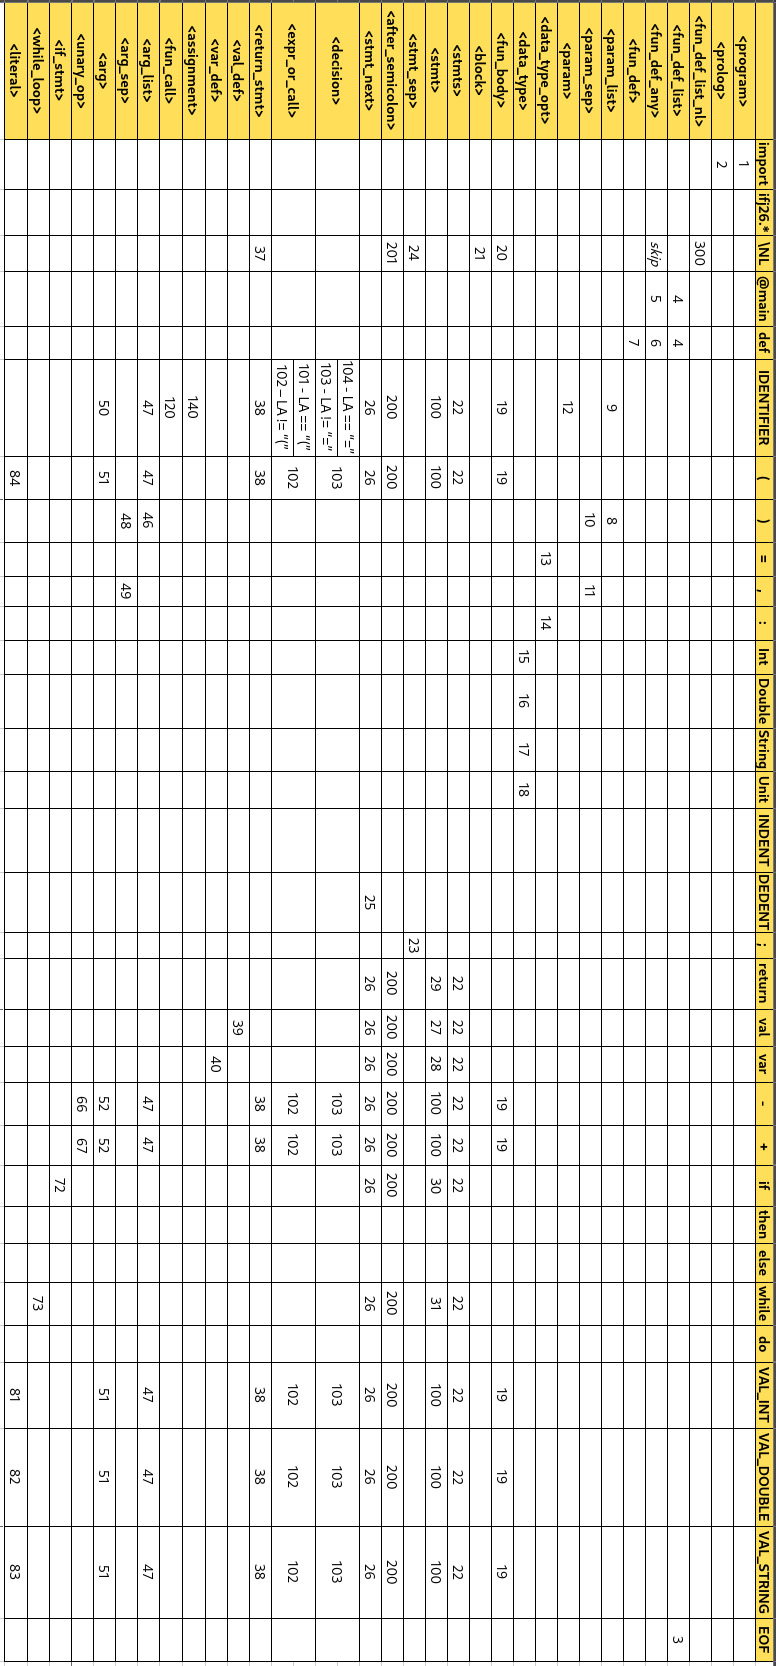
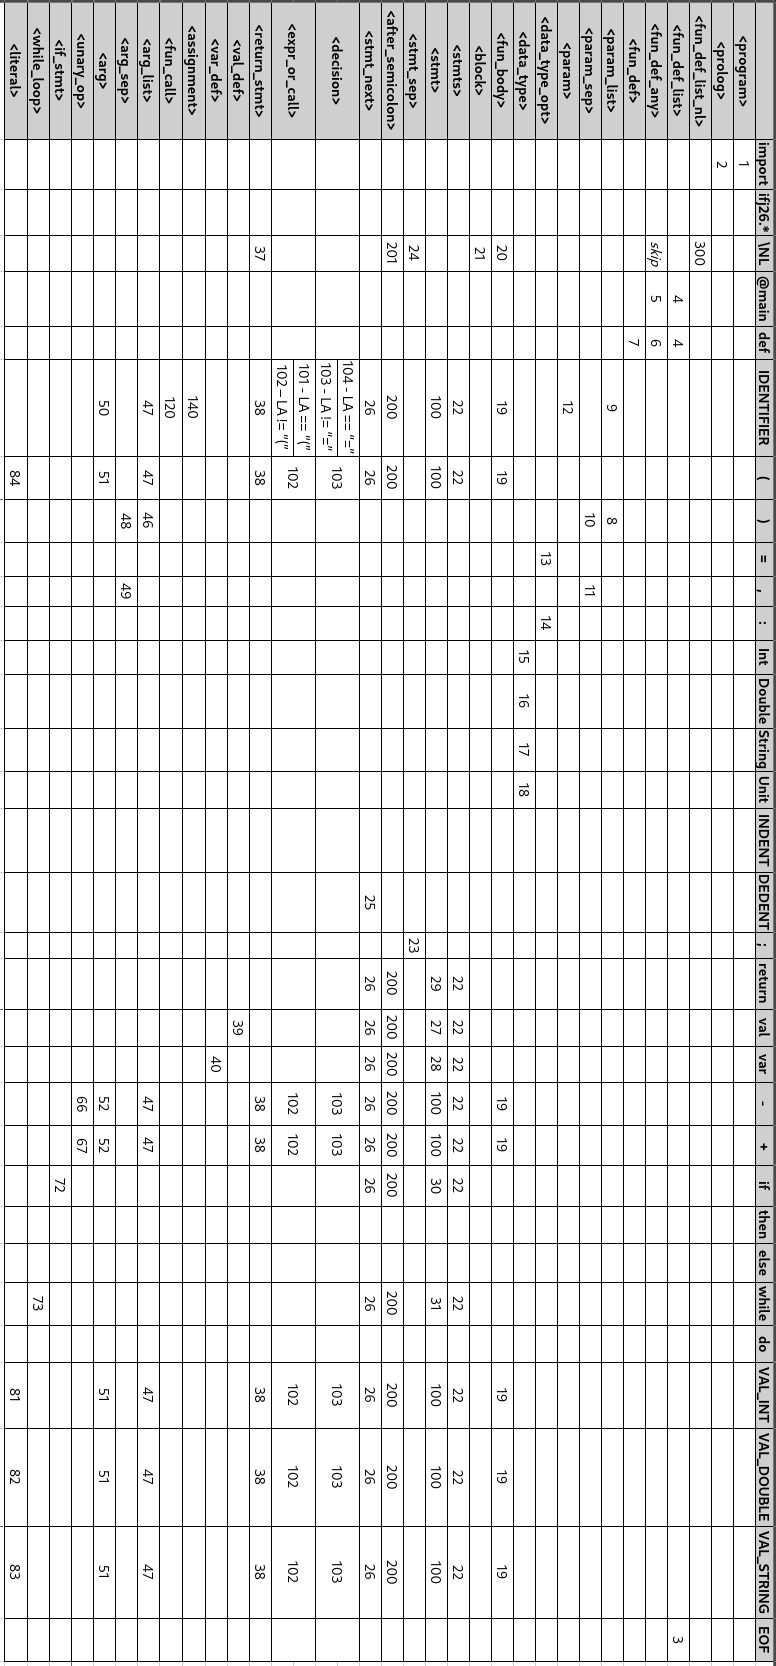
Slightly changed point distribution, changed LL table color, added a few module descriptions

Changed region(s): [[0.0, 0.0, 1.0, 0.9988]]

diff --git a/doc/main.tex b/doc/main.tex
@@ -74,13 +74,13 @@
         \hline
         \textbf{Člen týmu} & \textbf{VUT login} & \textbf{Osobní číslo} & \textbf{Podíl bodů} \\
         \hline
-        \textbf{Martin Vaško} & xvaskom00 & 282244 & DOPLŇTE \% \\
+        \textbf{Martin Vaško} & \textbf{xvaskom00} & \textbf{282244} & 54 \% \\
         \hline
-        Michal Bína & xbinami00 & 282028 & DOPLŇTE \% \\
+        Michal Bína & xbinami00 & 282028 & 13 \% \\
         \hline
-        Lukáš Dvořák & xdvoral00 & 282092 & DOPLŇTE \% \\
+        Lukáš Dvořák & xdvoral00 & 282092 & 20 \% \\
         \hline
-        Jiří Švec & xsvecji00 & 281993 & DOPLŇTE \% \\
+        Jiří Švec & xsvecji00 & 281993 & 13 \% \\
         \hline
     \end{tabularx}
 
@@ -274,7 +274,8 @@ VYUŽÍVÁ LOOK AHEAD, pokud zpracovávaný token je IDENTIFIER\\
 83 <literal> $\to$ VAL\_STRING\\
 84 <literal> $\to$ ()\\
 
-\textbackslash NL je 
+\textbackslash NL je token nového řádku pouze tam, kde jsou nové řádky
+ vyžadovány nebo zakázány.\\
 <expr> a <cond> se řeší pomocí precedenční syntaktické analýzy.\\
 Pravidla jsou nepravidelně očíslovaná, protože původní očíslovaná pravidla obsahovala
 chyby. Hodně pravidel bylo odstraněno a novým pravidlům jsme přidělili velká čísla,
@@ -298,8 +299,6 @@ LA – look-ahead token, tedy token následující po právě analyzovaném toke
 
 \subsection{Redukční pravidla precedenční syntaktické analýzy}
 
-E ve značení LL gramatiky je výraz reprezentovaný neterminálem <expr> nebo <cond>.
-
 \begin{multicols}{2}
 E $\to$ i \\
 E $\to$ VAL\_STRING \\
@@ -322,8 +321,10 @@ E $\to$ E != E
 \end{multicols}
 
 Vysvětlivky: \\
-i – identifikator \\
-VAL\_STRING, VAL\_INT, VAL\_DOUBLE – Literály daných typů
+i – identifikátor \\
+VAL\_STRING, VAL\_INT, VAL\_DOUBLE – Literály daných typů\\
+E ve značení LL gramatiky je výraz reprezentovaný neterminálem
+ <expr> nebo <cond>.
 
 
 \subsection{Precedenční tabulka}
@@ -342,14 +343,14 @@ V tabulce nejsou zobrazeny všechny operátory, protože operátory se stejnou p
 naprosto identické řádky i sloupce. Vytvořili jsme z nich skupiny a do tabulky vložili pouze
 jeden operátor reprezentující celou skupinu.
 
-* reprezentuje *  / \\
-+ reprezentuje + - \\
-< reprezentuje < <= > >= == != \\
-( reprezentuje pouze sebe \\
-) reprezentuje pouze sebe \\
-i reprezentuje identifikátory a literály \\
-\$ na zásobníku je speciální znak, který se chová jako terminál a je vždy na spodku zásobníku.\\
-\$ na vstupu je ukončovač výrazu.
+\textbf{*} reprezentuje *  / \\
+\textbf{+} reprezentuje + - \\
+\textbf{<} reprezentuje < <= > >= == != \\
+\textbf{(} reprezentuje pouze sebe \\
+\textbf{)} reprezentuje pouze sebe \\
+\textbf{i} reprezentuje identifikátory a literály \\
+\textbf{\$} na zásobníku je speciální znak, který se chová jako terminál a je vždy na spodku zásobníku.\\
+\textbf{\$} na vstupu je ukončovač výrazu.
 
 % =================================================
 \section{Popis implementovaných modulů}
@@ -361,13 +362,29 @@ i reprezentuje identifikátory a literály \\
     \toprule
     \textbf{Modul} & \textbf{Stručný popis odpovědnosti modulu} \\
     \midrule
-     \texttt{lexer.c / lexer.h} & Ze zdrojového kódu v jazyce \texttt{IFJ26}, který si celý zanalyzuje, umožnuje postupně vrátit všechny vytvořené tokeny z programu.  \\
-     \texttt{parser.c / parser.h} & Nad tokeny, které si vezme od lexeru, provede syntaktickou analýzu a vytvoří odpovídající abstraktní syntaktický strom. \\
-     \texttt{semantics.c / semantics.h} & Z BST kontroluje, zda je program sémanticky správně a vrací abstraktní sémantický strom.\\
-     \texttt{symtable.c / symtable.h} & DOPLŇTE \\
-     \texttt{codegen.c / codegen.h} & DOPLŇTE \\
-     \texttt{bst.c / bst.h / bst\_priv.h} & Umožnuje ukládat data do výškově vyváženého binárního stromu a poté k nim efektivně přistupovat. \\
-    \texttt{error\_codes.h} & Obsahuje seznam chybových návratových kódů. \\
+    \texttt{main.c} & Vstupní bod celého programu. \\
+    \texttt{lexer.c/.h} & Ze zdrojového kódu v jazyce \texttt{IFJ26}, který si
+     celý předem zanalyzuje, umožnuje postupně vrátit všechny vytvořené tokeny
+      z programu.  \\
+    \texttt{parser.c/.h/\_priv.h} & Volá funkce všech hlavních modulů potřebných
+     pro překlad, zpracovává tokeny pomocí syntaktické analýzy založené na 
+     LL gramatice metodou rekurzivního sestupu (kromě tokenů výrazů) a zároveň 
+     při tom vytváří abstraktní syntaktický strom. \\
+    \texttt{expr\_parser.c/.h/\_priv.h} & Zpracovává tokeny všech výrazů pouze pomocí
+     precedenční syntaktické analýzy, a zároveň při tom vytváří abstraktní 
+     syntaktický strom. \\
+    \texttt{ast\_module.c/.h} & Obsahuje funkce pro tvorbu abstraktního
+     syntaktického stromu (AST). \\
+    \texttt{semantics.c/.h/\_priv.h} & Z BST kontroluje, zda je program 
+     sémanticky správně a vrací abstraktní sémantický strom.\\
+    \texttt{symtable.c / symtable.h} & DOPLŇTE \\
+    \texttt{bst.c / bst.h / bst\_priv.h} & Implementace výškově vyváženého 
+    binárního vyhledávacího stromu. Je implementován jako AVL strom, klíčem 
+    je řetězec. \\
+    \texttt{codegen.c / codegen.h} & DOPLŇTE \\
+     
+    \texttt{error\_codes.h} & Obsahuje definice konstant chybových 
+    návratových kódů a makro pro vypisování chybových hlášek. \\
      
     \bottomrule
 \end{longtable}
